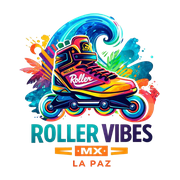
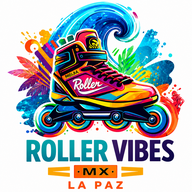
Add files via upload

diff --git a/service-worker.js b/service-worker.js
@@ -1,0 +1,1 @@
+const CACHE_NAME='roller-vibes-v2-cache-v1';const FILES_TO_CACHE=['./','./index.html','./manifest.json','./logo.png','./icon-192.png','./icon-512.png'];self.addEventListener('install',event=>{event.waitUntil(caches.open(CACHE_NAME).then(cache=>cache.addAll(FILES_TO_CACHE)));self.skipWaiting();});self.addEventListener('activate',event=>{event.waitUntil(caches.keys().then(keys=>Promise.all(keys.map(key=>key!==CACHE_NAME?caches.delete(key):null))));self.clients.claim();});self.addEventListener('fetch',event=>{event.respondWith(caches.match(event.request).then(response=>response||fetch(event.request)));});

diff --git a/README.md b/README.md
@@ -1,1 +1,3 @@
-# roller-vibes-app-v2
+# Roller Vibes App V2
+
+App web progresiva para Roller Vibes MX La Paz.